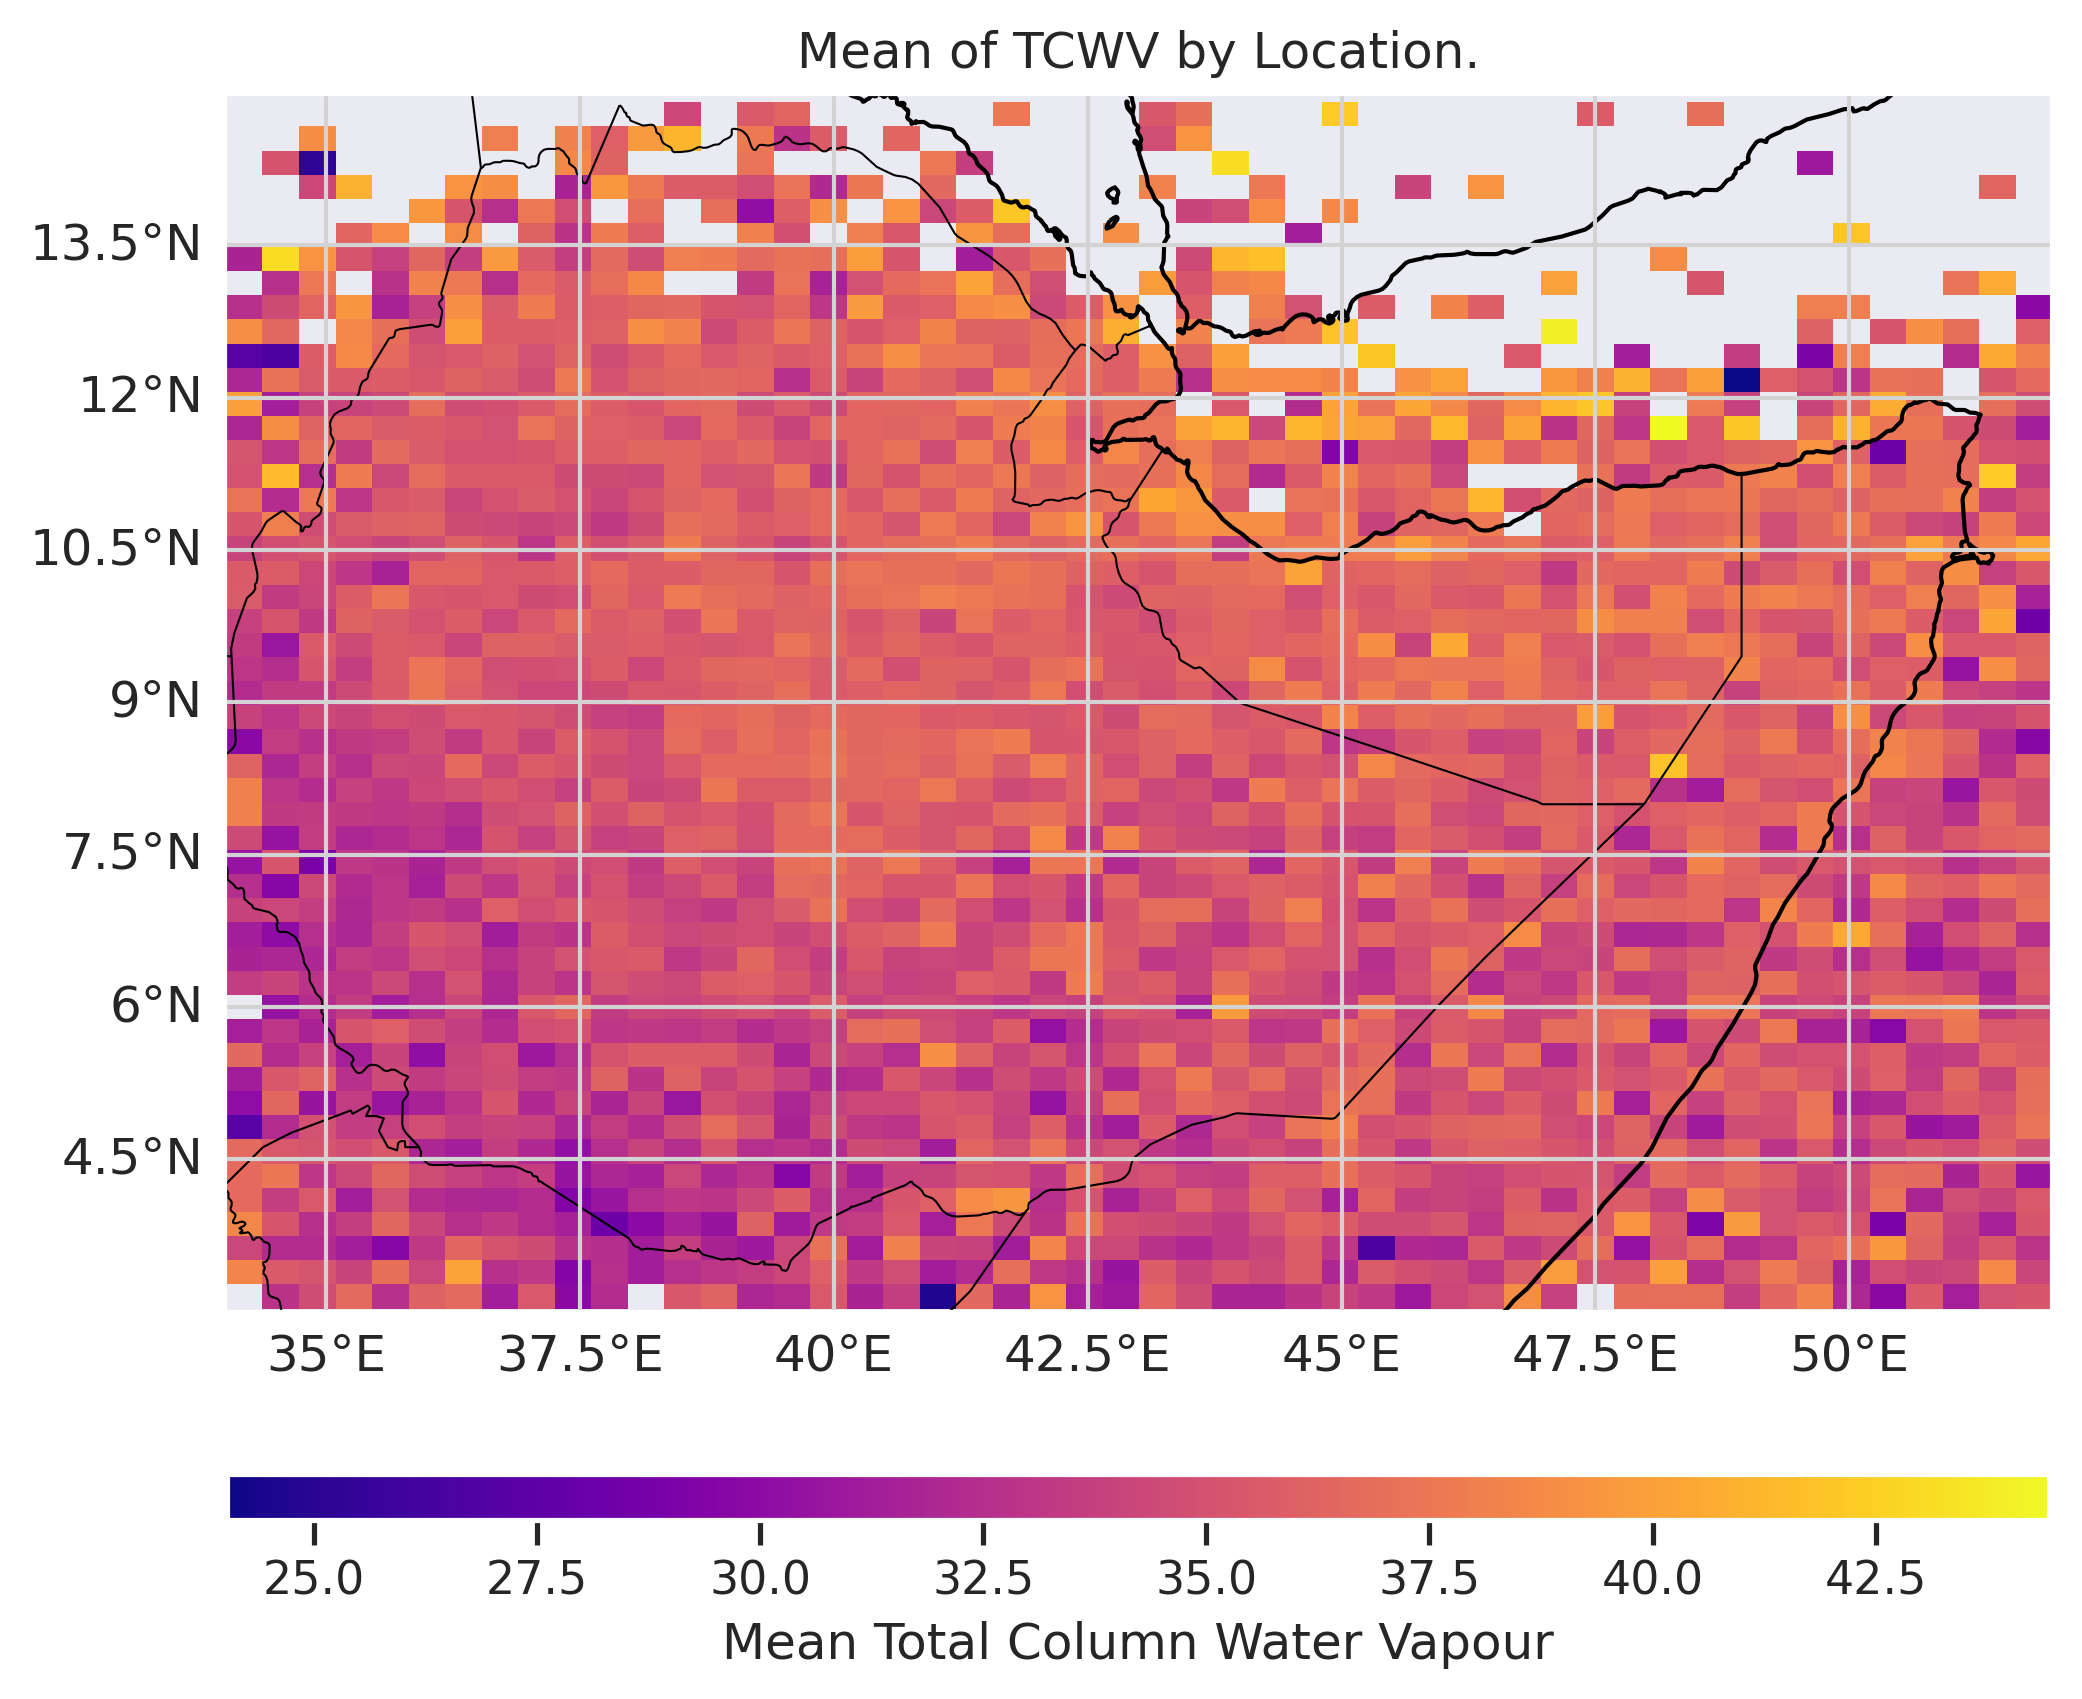
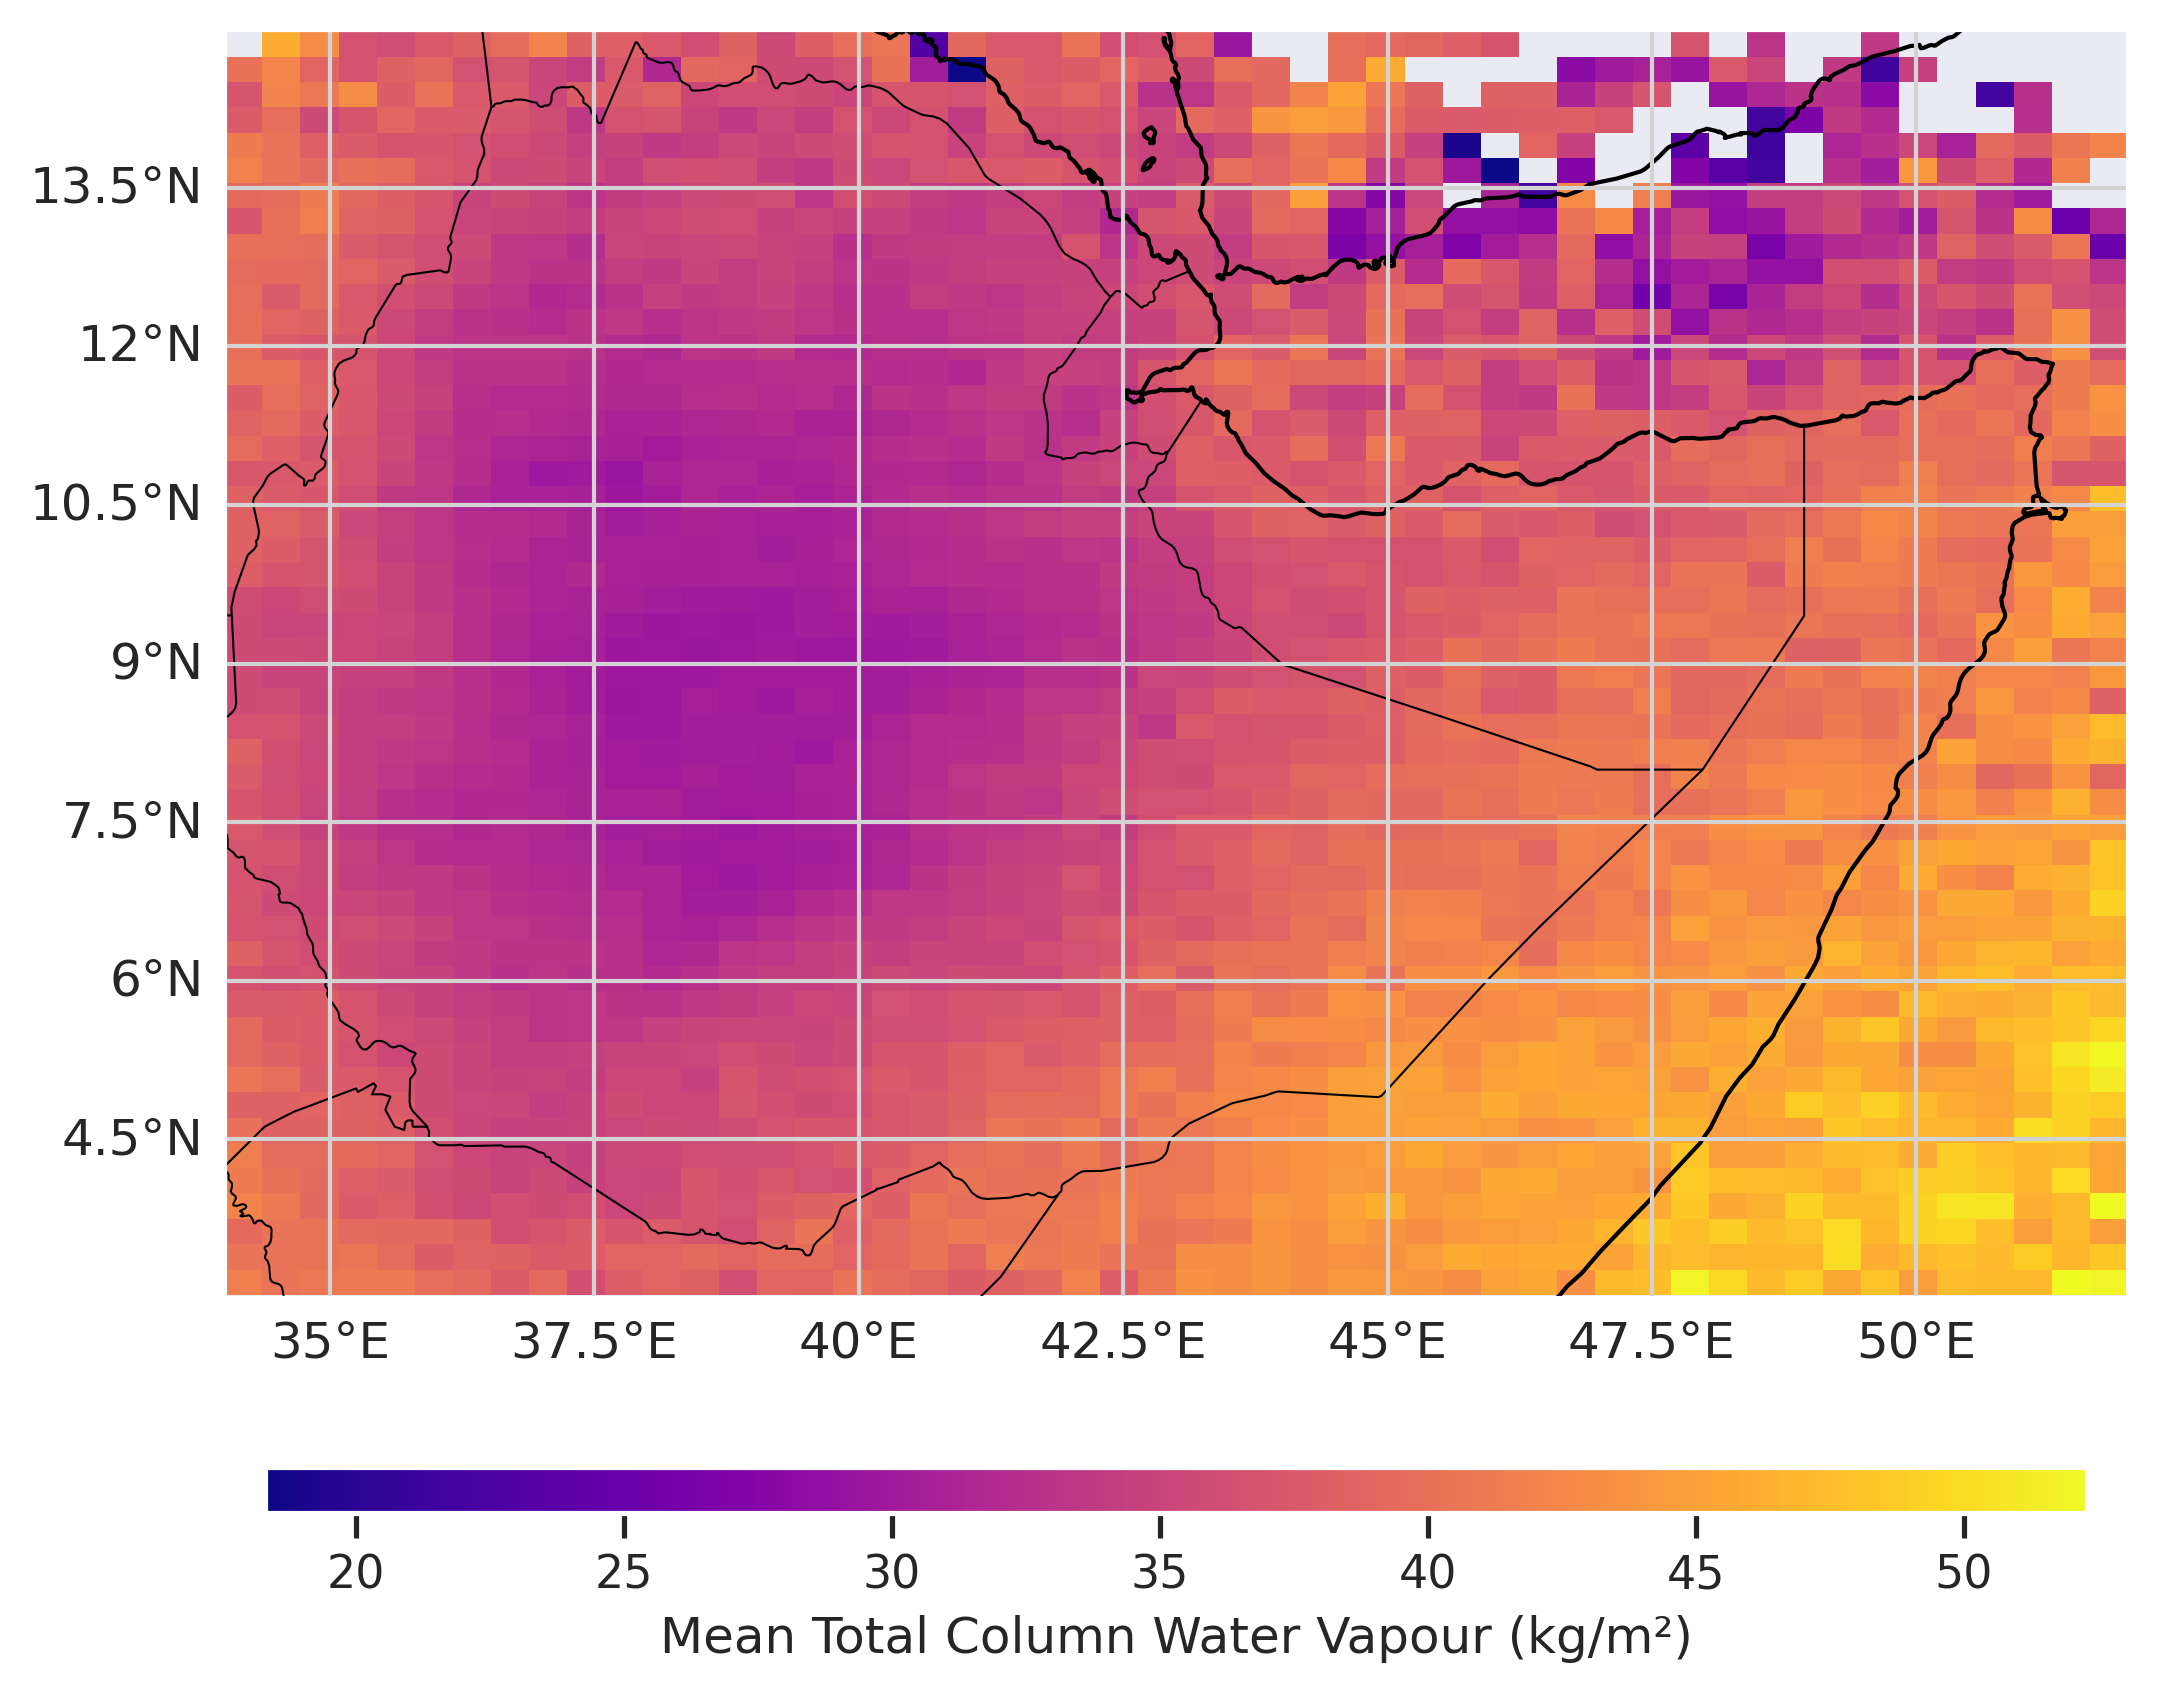
update climatology figures to include units; remove title

diff --git a/src/create_figures.py b/src/create_figures.py
@@ -841,8 +841,7 @@ plotting.save_plot("min_bt_over_lifecycle_by_init_type.png")
 # %%
 print("Binning tcwv by latitude and longitude.")
 tcwv_mean_lon, tcwv_mean_lat, tcwv_mean_grid = processing.calc_2d_agg(
-    df,
-    "domain_mean_tcwv"
+    df, "mean_tcwv"
 )
 
 # %%
@@ -854,8 +853,8 @@ plotting.plot_2d_agg_map(
     cmap=config.DEFAULT_MAP_CMAP,
     cbar_aspect=40,
     cbar_shrink=0.63,
-    cbar_label="Mean Total Column Water Vapour",
-    title="Mean of TCWV by Location.",
+    cbar_label=f"Mean Total Column Water Vapour ({config.FEATURE_COL_UNITS['mean_tcwv']})",
+    # title="Mean of TCWV by Location.",
     filename="tcwv_mean_by_loc.png",
     save_dir=config.EXPLORATION_FIGURES_DIR,
 )
@@ -863,8 +862,7 @@ plotting.plot_2d_agg_map(
 # %%
 print("Binning u850 by latitude and longitude.")
 u850_mean_lon, u850_mean_lat, u850_mean_grid = processing.calc_2d_agg(
-    df,
-    "mean_u850"
+    df, "mean_u850"
 )
 
 # %%
@@ -876,8 +874,8 @@ plotting.plot_2d_agg_map(
     cmap=config.DEFAULT_MAP_CMAP,
     cbar_aspect=40,
     cbar_shrink=0.63,
-    cbar_label="Mean 850 hPa zonal wind",
-    title="Mean of 850 hPa zonal wind by Location.",
+    cbar_label=f"Mean 850 hPa zonal wind ({config.FEATURE_COL_UNITS['mean_u850']})",
+    # title="Mean of 850 hPa zonal wind by Location.",
     filename="u850_mean_by_loc.png",
     save_dir=config.EXPLORATION_FIGURES_DIR,
 )
@@ -885,8 +883,7 @@ plotting.plot_2d_agg_map(
 # %%
 print("Binning v850 by latitude and longitude.")
 v850_mean_lon, v850_mean_lat, v850_mean_grid = processing.calc_2d_agg(
-    df,
-    "mean_v850"
+    df, "mean_v850"
 )
 
 # %%
@@ -898,8 +895,8 @@ plotting.plot_2d_agg_map(
     cmap=config.DEFAULT_MAP_CMAP,
     cbar_aspect=40,
     cbar_shrink=0.63,
-    cbar_label="Mean 850 hPa meridional wind",
-    title="Mean of 850 hPa meridional wind by Location.",
+    cbar_label=f"Mean 850 hPa meridional wind ({config.FEATURE_COL_UNITS['mean_v850']})",
+    # title="Mean of 850 hPa meridional wind by Location.",
     filename="v850_mean_by_loc.png",
     save_dir=config.EXPLORATION_FIGURES_DIR,
 )

diff --git a/src/utils/plotting.py b/src/utils/plotting.py
@@ -324,8 +324,6 @@ def plot_2d_agg_map(
 
     if title is not None:
         ax.set_title(title)
-    else:
-        ax.set_title(f"Aggregated Value over Map")
 
     if filename is not None and save_dir is not None:
         save_plot(filename, save_dir)
